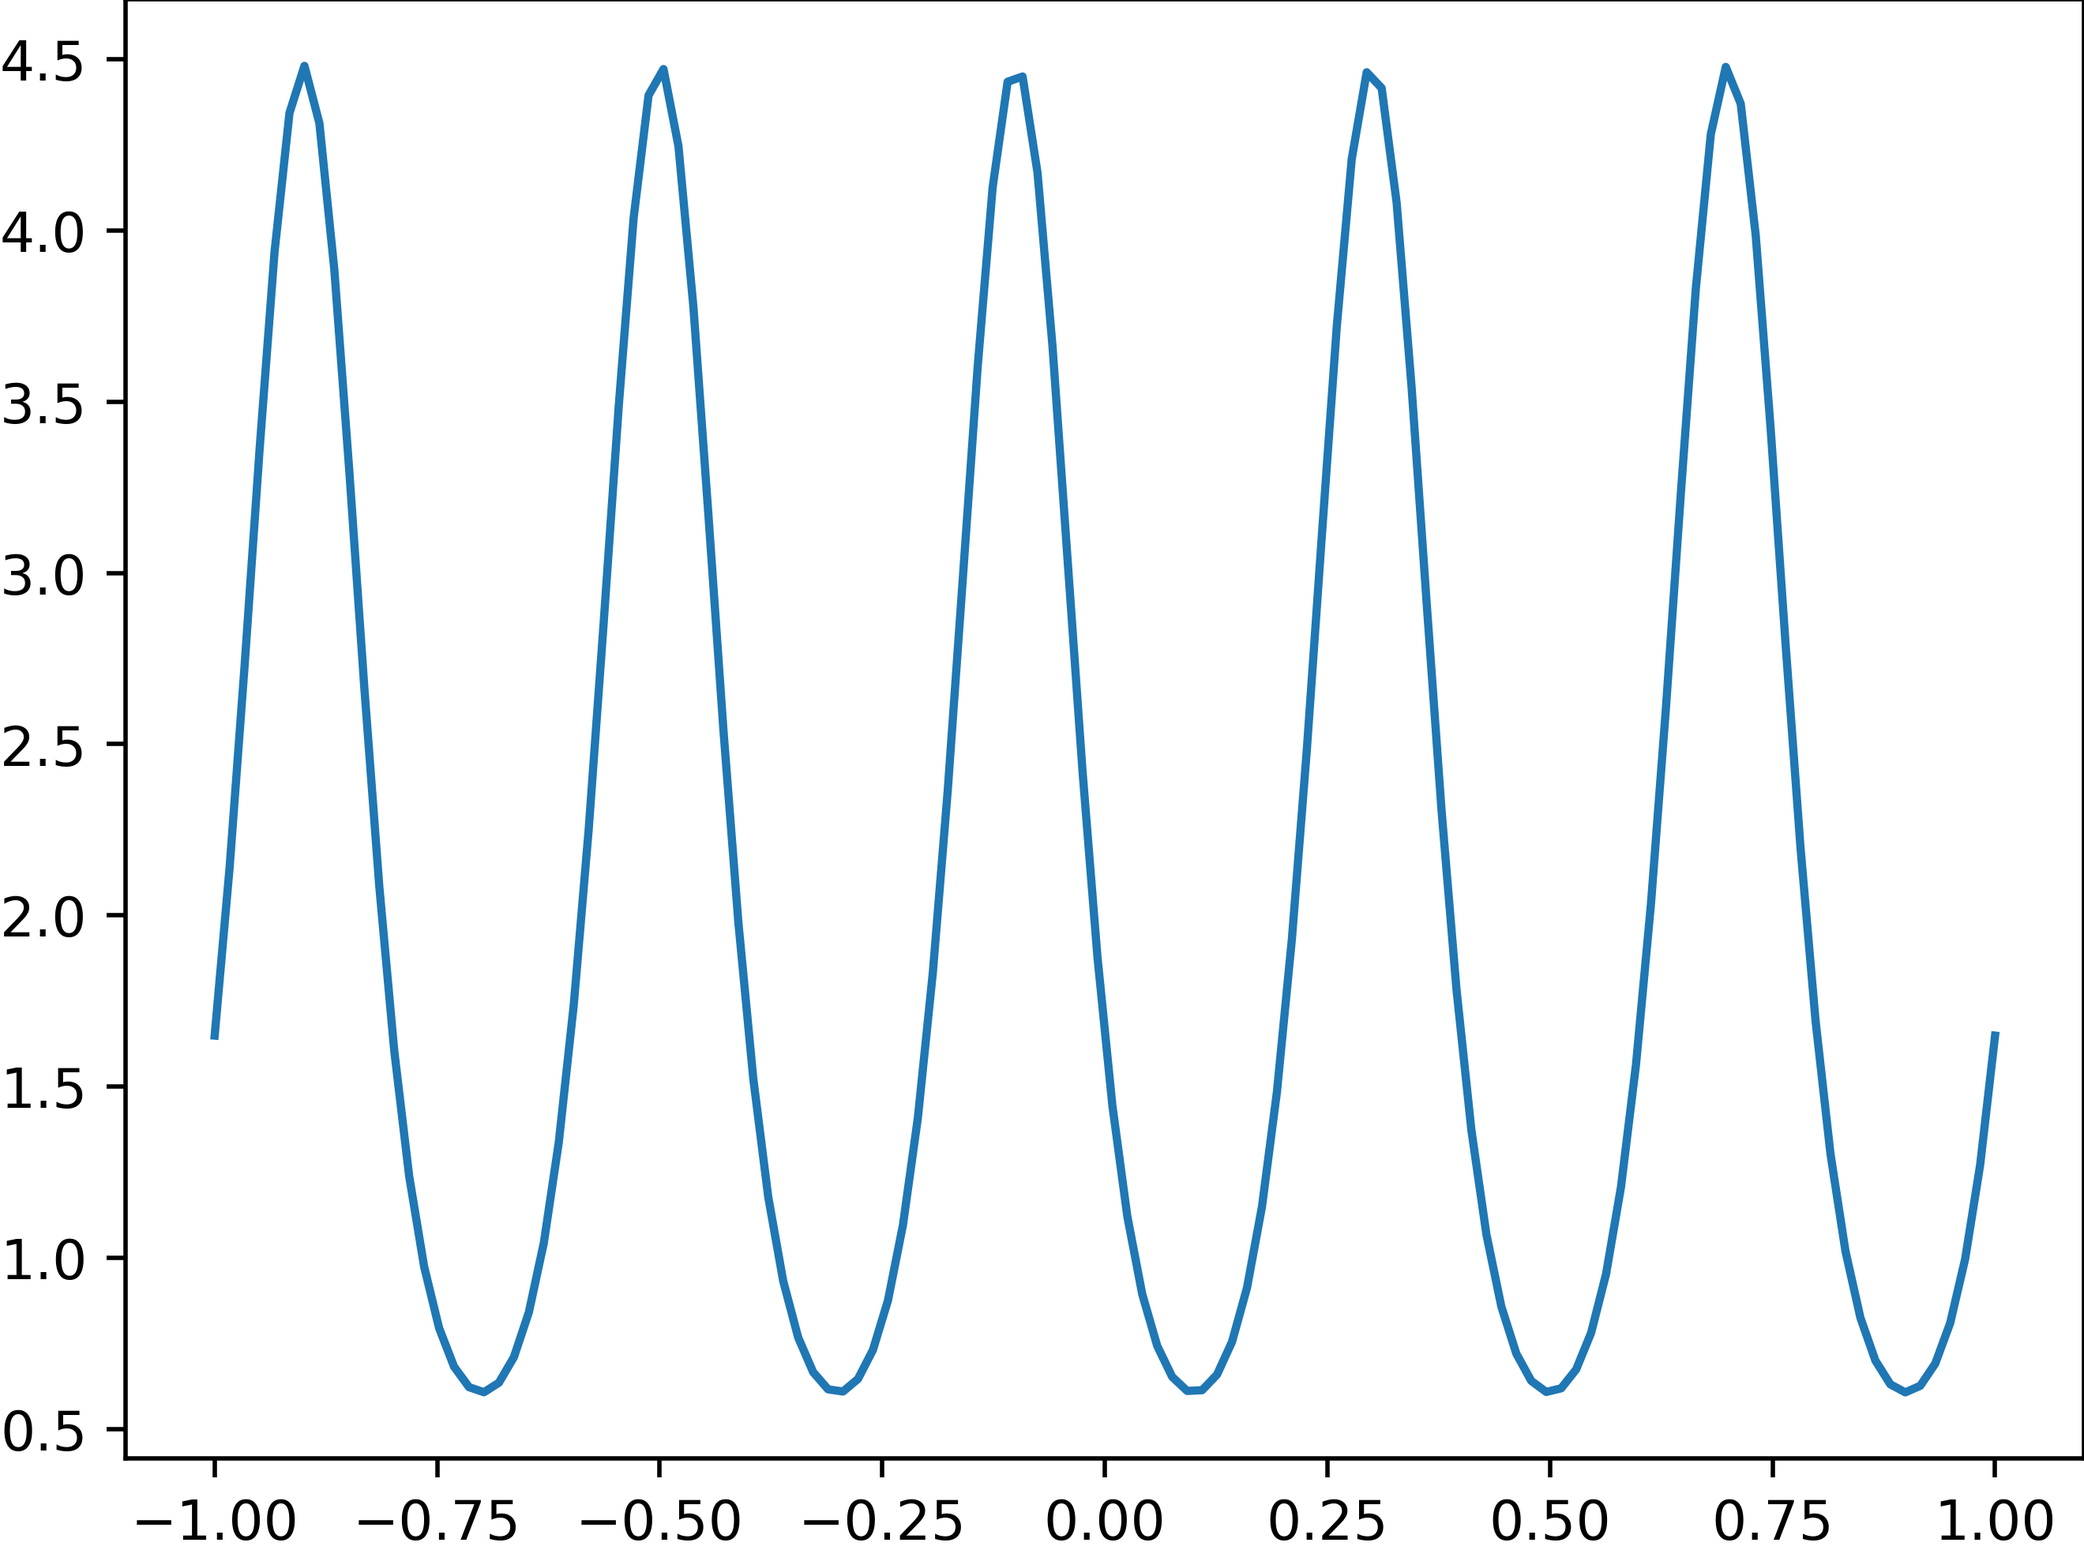
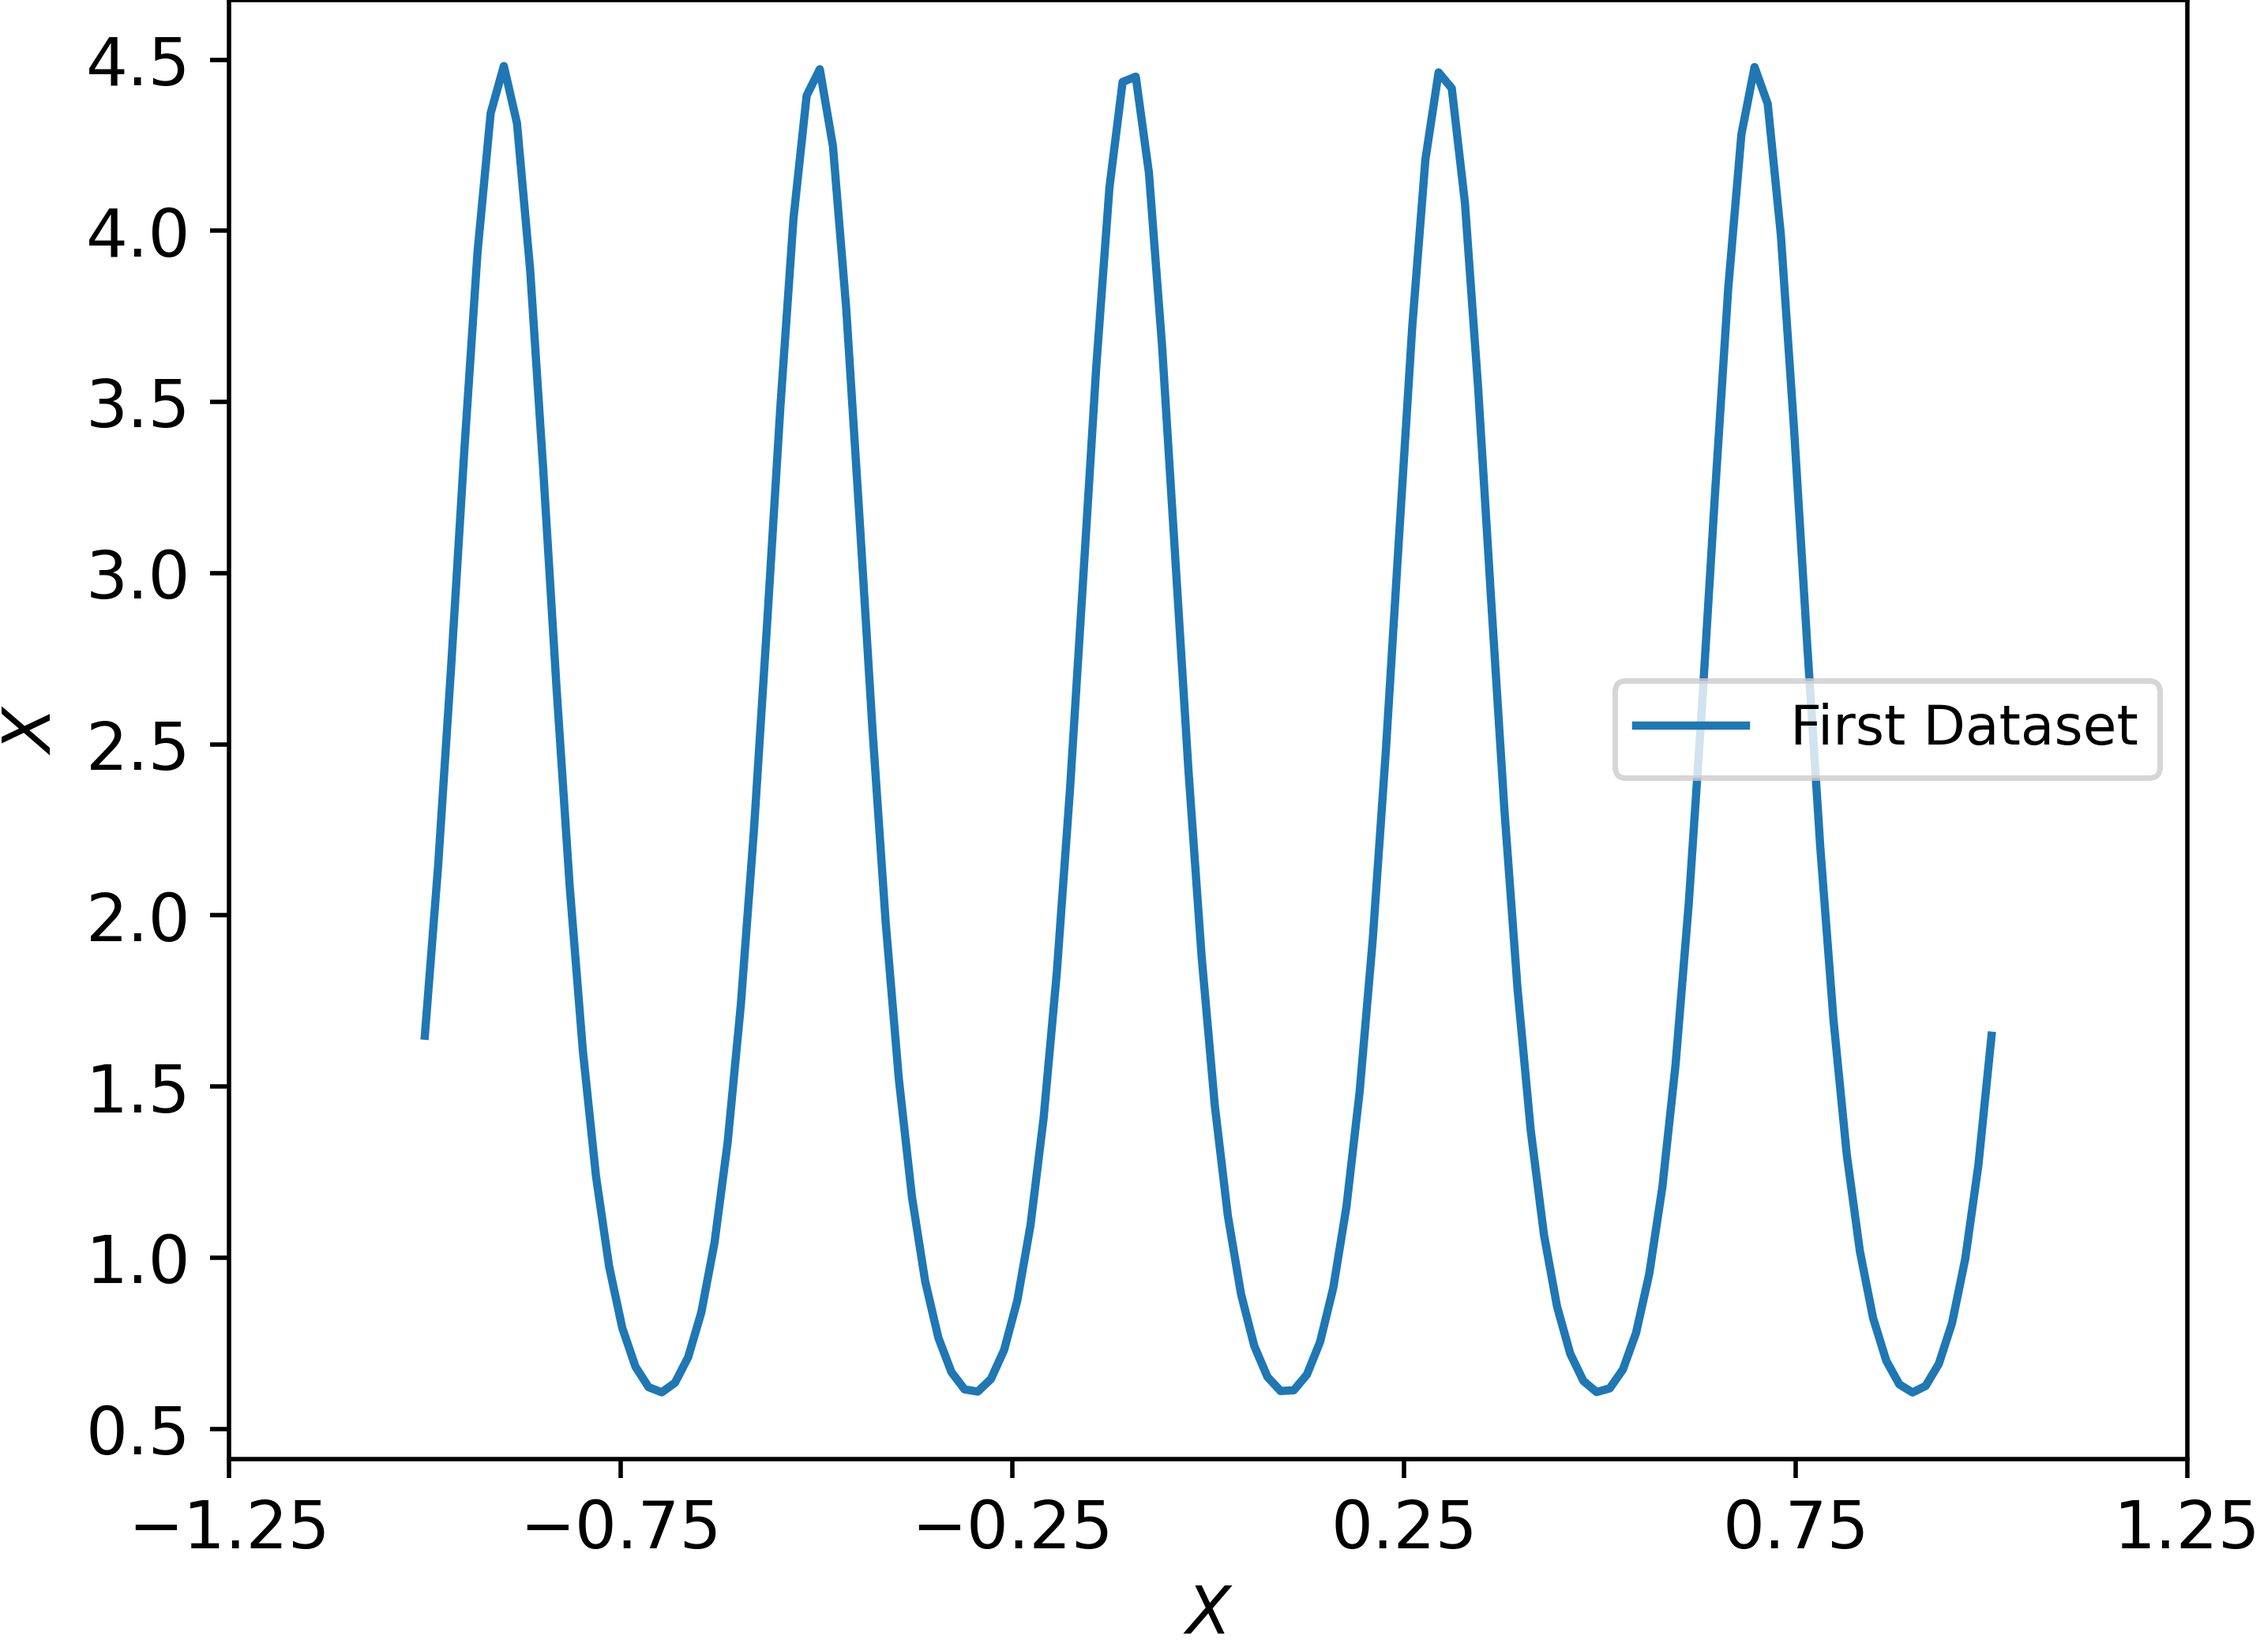
working on lab1

diff --git a/labs/lab1/lab1.py b/labs/lab1/lab1.py
@@ -21,20 +21,20 @@ pyplot.plot(x,y)
 # As you update your figure, with new options, view it.  For instance, on a mac type 
 #    $ open -a preview lab1.png
 
-# pyplot.tick_params(labelsize='large')
+pyplot.tick_params(labelsize='large')
 
-# pyplot.xlabel(r'$X$', fontsize='large')
+pyplot.xlabel(r'$X$', fontsize='large')
 
-# Now, enter the right command for the ylabel using pyplot.ylabel(...)
+pyplot.ylabel(r'$X$', fontsize='large')
 
-# Reduce the number of xticks with "pyplot.xticks()"  
+currTicks = pyplot.xticks()[0]
+pyplot.xticks(currTicks[::2])
 # Use ">>> pyplot.xticks? " from inside of iPython to understand the interface 
 
 # Add a parameter to the legend command to make the fontsize large
-# pyplot.legend(['First Dataset']) 
+pyplot.legend(['First Dataset']) 
 
 pyplot.savefig('lab1.png', dpi=500, format='png', bbox_inches='tight', pad_inches=0.0,)
-
 
 # Task 3: Try pyplot.show() instead of pyplot.savefig()
 
